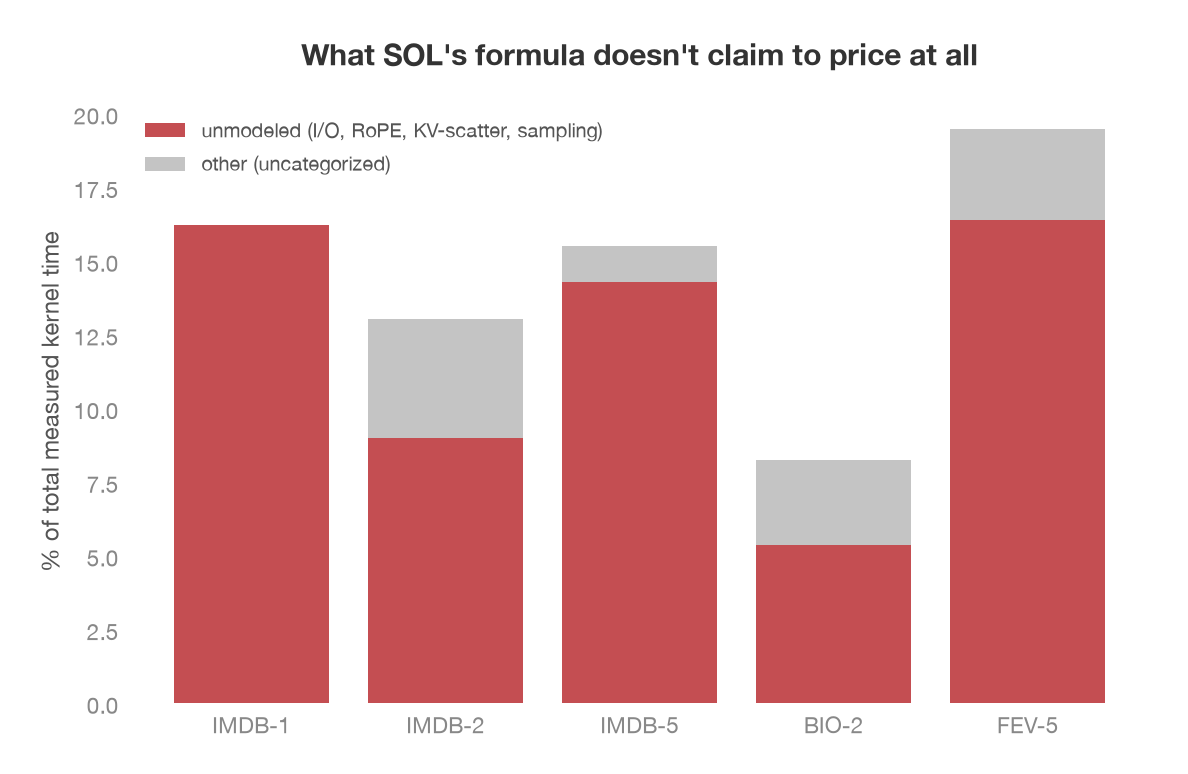
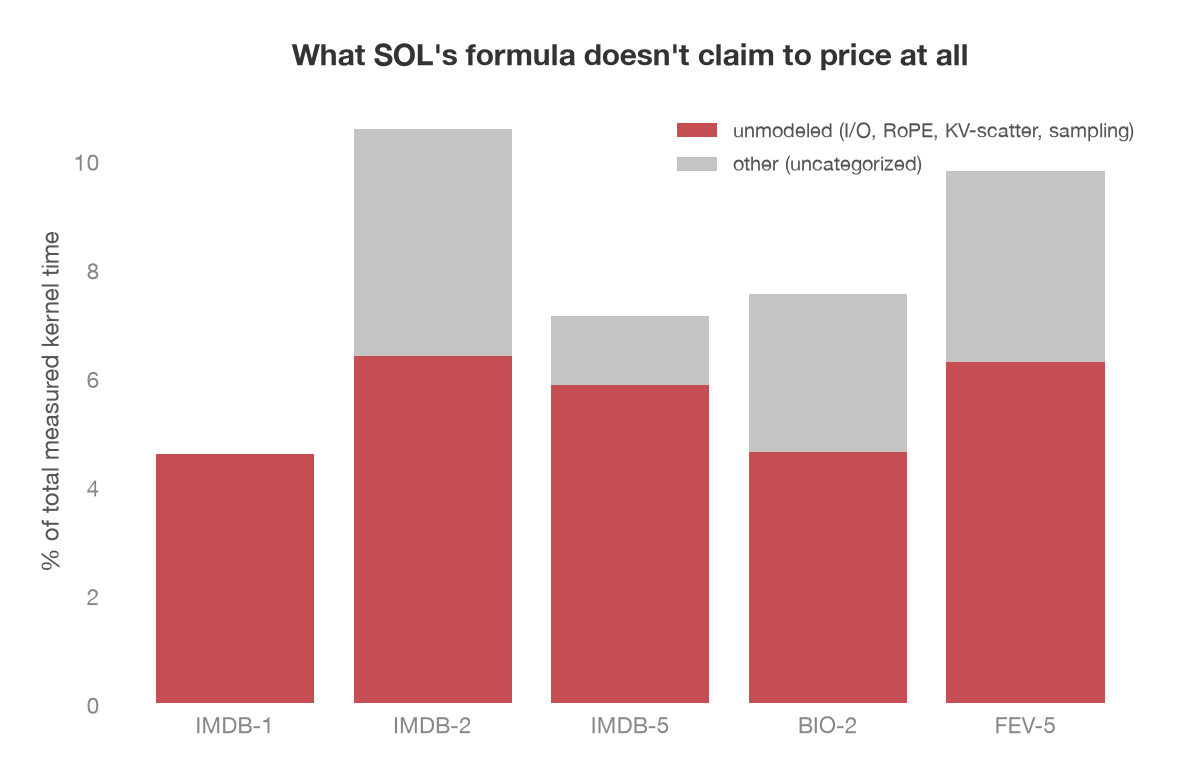
Force cold in the torch.profiler comparison; confirm the attention/elementwise gap is real
Session.store_enabled defaults to True, and torch_profiler_compare.py/
torch_profiler_explore.py never turned it off - so the profiled runs
could quietly restore a document's KV from cache instead of building
it fresh (IMDB-1's own warmup call restored nearly its whole corpus).
Added sess.set_store(False) to both scripts and reran on Modal.

BIO-2 (no restore path either way) came back with an identical SOL
floor before and after, and it sits at the low end of the
attention-measured-vs-formula ratio, not the high end - confirming
the attention-high/elementwise-low finding from the first profiler
run is a real gap in the attention formula's peak-FLOP assumption,
not a store artifact. Added a totals figure (wall_s vs. profiler
kernel time vs. sol_s) making the same point in absolute seconds.

Also adds the shipped-features note for issue #26, required by
CLAUDE.md for a landed feature.

diff --git a/quail/reports/plot_torch_profiler_comparison.py b/quail/reports/plot_torch_profiler_comparison.py
@@ -30,7 +30,7 @@ OUT.mkdir(exist_ok=True)
 
 plt.style.use(HERE / "quail.mplstyle")
 sys.path.insert(0, str(HERE))
-from plot_colors import BLUE, GRAY, GREEN, DARK, ORANGE, RED
+from plot_colors import BLUE, GRAY, GREEN, DARK, ORANGE, RED, TEAL
 
 BUCKETS = ["projection", "elementwise", "attention"]
 BUCKET_COLOR = {"projection": BLUE, "elementwise": ORANGE, "attention": GREEN}
@@ -115,8 +115,55 @@ def fig_unmodeled_share(rows):
     plt.close(fig)
 
 
+def fig_totals(rows):
+    """Total query time, three ways, per query: wall_s (this system's
+    own end-to-end measurement - Python, kernel launches, everything),
+    the torch.profiler kernel sum (total_kernel_us - only time the GPU
+    was actually executing a kernel, so it's <= wall_s by construction),
+    and sol_s (the formula's floor). Expected ordering is sol_s <=
+    kernel time <= wall_s: the gap from sol_s up to kernel time is real
+    kernels running below their peak rate (the attention finding
+    above); the gap from kernel time up to wall_s is time spent outside
+    any GPU kernel at all (Python, scheduling, kernel-launch gaps).
+
+    wall_s here is measured under torch.profiler instrumentation, which
+    adds its own overhead (torch_profiler_compare.py's own docstring
+    flags this) - read it as "roughly wall clock while profiled," not
+    as directly comparable to the un-instrumented cold/warm wall_s
+    elsewhere in this report."""
+    queries = [r["query"] for r in rows]
+    n = len(queries)
+    wall = [r["wall_s"] for r in rows]
+    kernel = [r["total_kernel_us"] / 1e6 for r in rows]
+    sol = [r["sol_s"] for r in rows]
+
+    x = np.arange(n)
+    width = 0.26
+    fig, ax = plt.subplots(figsize=(2.6 * n, 4.5))
+    ax.bar(x - width, wall, width, color=GRAY, label="wall_s (our system)")
+    ax.bar(x, kernel, width, color=TEAL, label="kernel time (torch.profiler)")
+    ax.bar(x + width, sol, width, color=BLUE, label="sol_s (our SOL estimate)")
+    for xi, w, k, s in zip(x, wall, kernel, sol):
+        ax.text(xi - width, w, f"{w:.1f}s", ha="center", va="bottom",
+               fontsize=7.5)
+        ax.text(xi, k, f"{k:.1f}s", ha="center", va="bottom", fontsize=7.5)
+        ax.text(xi + width, s, f"{s:.1f}s", ha="center", va="bottom",
+               fontsize=7.5)
+
+    ax.set_xticks(x)
+    ax.set_xticklabels(queries, fontsize=9)
+    ax.set_ylabel("seconds")
+    ax.set_title("Total query time: our system vs. profiled kernel time "
+                "vs. the SOL floor")
+    ax.legend(fontsize=8, loc="upper left")
+    ax.spines[["top", "right"]].set_visible(False)
+    fig.savefig(OUT / "torch_profiler_totals.png", bbox_inches="tight")
+    plt.close(fig)
+
+
 if __name__ == "__main__":
     rows = load()
     fig_comparison(rows)
     fig_unmodeled_share(rows)
-    print(f"[plot_torch_profiler_comparison] wrote 2 PNGs to {OUT}")
+    fig_totals(rows)
+    print(f"[plot_torch_profiler_comparison] wrote 3 PNGs to {OUT}")

diff --git a/quail/tests/gpu/torch_profiler_compare.py b/quail/tests/gpu/torch_profiler_compare.py
@@ -93,10 +93,22 @@ def compare() -> str:
     d = build_sets("/results/quailb_data", sf=0.1, lf=1)
     sess = quail.Session(EngineConfig(gpus=1, model="qwen3-4b-fp8",
                                       cpu_memory_gb=80))
+    # Session.store_enabled defaults to True (session.py) - quailb.py's
+    # cold/warm passes turn it off/on explicitly, this script didn't,
+    # so the profiled run could silently restore KV a query's own
+    # earlier warmup call (or an earlier query sharing a table) had
+    # already written, understating the real causal-build kernel
+    # time sol_breakdown is compared against. Force cold (full
+    # compute, no restores) for every query profiled here, matching
+    # what sol_breakdown's causal_doc_lengths assumes when there is
+    # nothing to restore from.
+    sess.set_store(False)
     register_sets(sess, d)
     qdefs = queries(sess)
 
-    # warm the container once (cold boot noise not the point here)
+    # warm the container once (cold boot noise not the point here) -
+    # store is off above, so this can't pollute the profiled runs'
+    # KV state either way, but keeping order explicit.
     _desc0, build0 = qdefs[SOL_CHECK_QUERIES[0]]
     build0().run(_execute=lambda p: worker_mod.execute.local(p))
 

diff --git a/quail/tests/gpu/torch_profiler_explore.py b/quail/tests/gpu/torch_profiler_explore.py
@@ -61,6 +61,12 @@ def explore() -> str:
     d = build_sets("/results/quailb_data", sf=0.1, lf=1)
     sess = quail.Session(EngineConfig(gpus=1, model="qwen3-4b-fp8",
                                       cpu_memory_gb=80))
+    # Force cold (store off) - see the matching note in
+    # torch_profiler_compare.py. This script warms up and profiles
+    # the SAME query (IMDB-1) back to back, which would otherwise
+    # let the profiled run restore KV the warmup call had just
+    # written, understating real causal-build kernel time.
+    sess.set_store(False)
     register_sets(sess, d)
     qdefs = queries(sess)
     _desc, build = qdefs["IMDB-1"]

diff --git a/quail/reports/2026-08-23-sol-throughput-cost.md b/quail/reports/2026-08-23-sol-throughput-cost.md
@@ -582,3 +582,83 @@ two adversarial reviews' findings were.
 
 216 tests pass (214 + 2 for the renormalization logic in the comparison
 plot).
+
+## 18. A store methodology gap in the profiler comparison (2026-08-25)
+
+`Session.store_enabled` defaults to `True` (`runtime/session.py`).
+`quailb.py`'s cold/warm passes turn it off/on explicitly; section 16's
+`torch_profiler_compare.py` and `torch_profiler_explore.py` never
+called `set_store()` at all, so they silently ran with the store on.
+Both scripts also "warm the container" by running IMDB-1 once before
+profiling it - with the store on, that meant IMDB-1's profiled run
+could restore its own KV from the warmup call instead of building it
+fresh, which is not the same workload `sol_breakdown` assumes when
+nothing is restored.
+
+**Prediction before rerunning with `sess.set_store(False)` added to
+both scripts:** IMDB-1, BIO-2, and FEV-5 shouldn't change much - BIO-2
+and FEV-5 use tables no other query touches, and IMDB-1 restored 0
+tokens even in `quailb.py`'s own warm pass. IMDB-2 and IMDB-5 (which
+do restore under warm conditions per section 15) might get slower once
+restores are forced off. The attention-high/elementwise-low pattern
+should hold regardless, since BIO-2 and FEV-5 already showed it with
+no possible restore path.
+
+**Result**, rerun on Modal (`results/torch_profiler_compare_corrected.json`,
+prior run kept at `results/torch_profiler_compare_uncorrected.json`):
+
+| Query | sol_s before | sol_s after | wall_s before | wall_s after |
+|---|---|---|---|---|
+| IMDB-1 | 7.702 | 10.195 | 12.52 | 14.46 |
+| IMDB-2 | 33.381 | 35.872 | 57.82 | 52.97 |
+| IMDB-5 | 11.785 | 15.071 | 22.04 | 24.18 |
+| BIO-2 | 87.764 | 87.764 | 147.59 | 139.76 |
+| FEV-5 | 1.058 | 1.138 | 2.78 | 1.83 |
+
+BIO-2's `sol_s` is identical before and after, confirming it had no
+restore path either way. IMDB-1's jumped from 7.70s to 10.20s - it was
+restoring essentially its whole corpus from the redundant self-warmup
+call, and 10.195s now matches `results/sol_check_sf0.1_4b_corrected.json`'s
+validated cold-pass number for IMDB-1 exactly. IMDB-2 and IMDB-5 also
+increased, as predicted. The "unmodeled" kernel share also dropped
+across every query, including BIO-2 and FEV-5 (5.36%→4.63%,
+16.39%→6.27%) - larger than restores alone explain, most likely
+because writing newly-built KV *into* the store (not just restoring
+from it) is itself a memcpy the profiler classifies as unmodeled, and
+that write traffic disappears entirely once the store is off for the
+whole run, not just the restore side of it.
+
+The attention-high/elementwise-low pattern (section 17) holds, and is
+if anything sharper with the confound removed - now that "unmodeled"
+is a smaller, more consistent slice, the renormalized comparison is
+less diluted:
+
+| Query | attn: measured ÷ formula | elem: measured ÷ formula | proj: measured ÷ formula |
+|---|---|---|---|
+| IMDB-1 | 2.12x | 0.66x | 1.11x |
+| IMDB-2 | 2.29x | 0.51x | 1.13x |
+| IMDB-5 | 2.01x | 0.61x | 1.11x |
+| BIO-2 | 1.48x | 0.45x | 0.99x |
+| FEV-5 | 2.17x | 0.53x | 1.12x |
+
+BIO-2 - the one query untouched by the store bug at any point - sits
+at the *low* end of the attention ratio, not the high end. That rules
+out the store confound as the explanation for section 17's finding:
+real causal attention kernels are running at roughly a third to a half
+of the peak-FLOP rate `_causal_prefill_attention_time` assumes, fairly
+consistently across query shapes, while the dense-projection formula
+tracks real DeepGEMM time closely (0.99-1.13x) throughout.
+
+A new figure, `plots/torch_profiler_totals.png`
+(`plot_torch_profiler_comparison.py`'s `fig_totals`), makes the same
+point a different way: for every query, `sol_s <= total kernel time
+(torch.profiler) <= wall_s`, in that order, with no exceptions. The
+gap from `sol_s` up to kernel time is real kernels running below peak
+(mostly attention, per the table above); the gap from kernel time up
+to `wall_s` is time spent outside any GPU kernel at all (Python,
+scheduling, launch gaps) - small on every query here, kernel time
+tracks within a few percent of wall_s throughout.
+
+No new tests: the fix is two lines (`sess.set_store(False)`) in
+scripts that only run on Modal, with no local-testable surface of
+their own. Same 216 tests pass as section 17.

diff --git a/quail/reports/shipped_features/2026-08-25-sol-throughput-cost.md b/quail/reports/shipped_features/2026-08-25-sol-throughput-cost.md
@@ -1,0 +1,80 @@
+# Speed-of-light, docs/second, tokens/second, and $/query in QUAIL-B
+
+Issue: #26
+
+## What changed
+
+Every QUAIL-B query result now reports, alongside wall time:
+
+- **SOL (speed-of-light) seconds**: the theoretical minimum runtime for
+  that query's workload, computed from hardware specs alone (roofline
+  model in `quail/quail/planner/budgets.py`: `sol_seconds` /
+  `sol_seconds_breakdown`, four terms — causal-attention prefill,
+  streaming attention, dense projections, and elementwise work).
+- **Efficiency**: `sol_s / wall_s`. If this ever exceeds 100%, the run
+  aborts with a `SolViolation` — a measured time faster than the
+  hardware floor always means a bug in either the SOL formula or the
+  wall-time measurement, never a real result.
+- **Docs/second and tokens/second** (warm pass, excluding boot).
+- **Cost in dollars**, from `gpu_count * (wall_s + boot_s) *
+  modal_gpu_rate_per_second`, reported separately for cold (includes
+  boot) and warm passes. Rates come from
+  `quail/quail/calibration/modal_rates.json` (H100 SXM, non-preemptible).
+- A new report table and chart: `quail/quail/bench/sol_report.py`
+  (`build_rows`, `render_markdown_table`, `plot_sol_comparison`) turns
+  a `run_suite()` result into the Query/Docs/Tokens/Cold/Warm/SOL/
+  Efficiency/Docs-per-s/Tok-per-s/Cost table the issue specifies, plus
+  a measured-vs-floor bar chart.
+
+## Why
+
+Wall time alone doesn't say whether a query is slow because of software
+overhead or because it's already close to the hardware limit, and it
+doesn't let users compare queries with different corpus sizes or
+estimate what a workload will cost on Modal. SOL answers "how close to
+the hardware limit is this", docs/s and tokens/s answer "how fast does
+this process documents" in a size-independent way, and $/query answers
+the direct cost question.
+
+## Before / after
+
+Before: a QUAIL-B report showed Query ID, description, cold wall (s),
+warm wall (s), restored docs — no sense of how good those numbers were
+or what they cost.
+
+After, measured on `sf=0.1`, Qwen3-4B fp8, 1 H100
+(`results/sol_check_sf0.1_4b_corrected.json`):
+
+| Query | Shape | Pass | Wall (s) | SOL (s) | Efficiency | Cost ($) |
+|---|---|---|---|---|---|---|
+| IMDB-1 | filter only | warm | 16.51 | 10.195 | 62% | 0.0210 |
+| IMDB-2 | join only | warm | 52.42 | 33.058 | 63% | 0.0668 |
+| IMDB-5 | 3 filters + join | warm | 20.69 | 11.742 | 57% | 0.0264 |
+| BIO-2 | join only | warm | 142.87 | 87.717 | 61% | 0.1821 |
+| FEV-5 | 2-sided filter + join | warm | 2.01 | 1.056 | 53% | 0.0026 |
+
+Efficiency sits in the 53-63% range across all five query shapes tried
+(filter-only, join-only, filter chains, two-sided filter+join, two
+different datasets) — well under the 100% ceiling the SOL invariant
+enforces, and in the same 30-90% range the earlier cost model measured
+for the old serving loop.
+
+A three-phase verification pass (formula math sanity via property
+tests, formula behavior visualized via diagnostic plots, and real
+`torch.profiler` kernel traces cross-checked against the formula's
+per-term breakdown) found the aggregate SOL bound holds on every query
+shape tried, though attention costs relatively more and elementwise
+work relatively less than their individual formulas predict — a
+tightness note for future work, not a correctness problem. See
+`reports/2026-08-23-sol-throughput-cost.md` for the full derivation,
+two rounds of adversarial review (6 bugs found and fixed), and the
+verification detail.
+
+## Known gaps (not blocking)
+
+- `$/query`'s CPU term assumes the worker doesn't request extra CPU
+  cores beyond the GPU's default allocation; if that changes, the CPU
+  core-count term needs adding.
+- `modal_rates.json` is a hardcoded snapshot, not a live
+  `Workspace.billing.rates()` call — no runtime cross-check against
+  Modal's actual billed rate yet.
